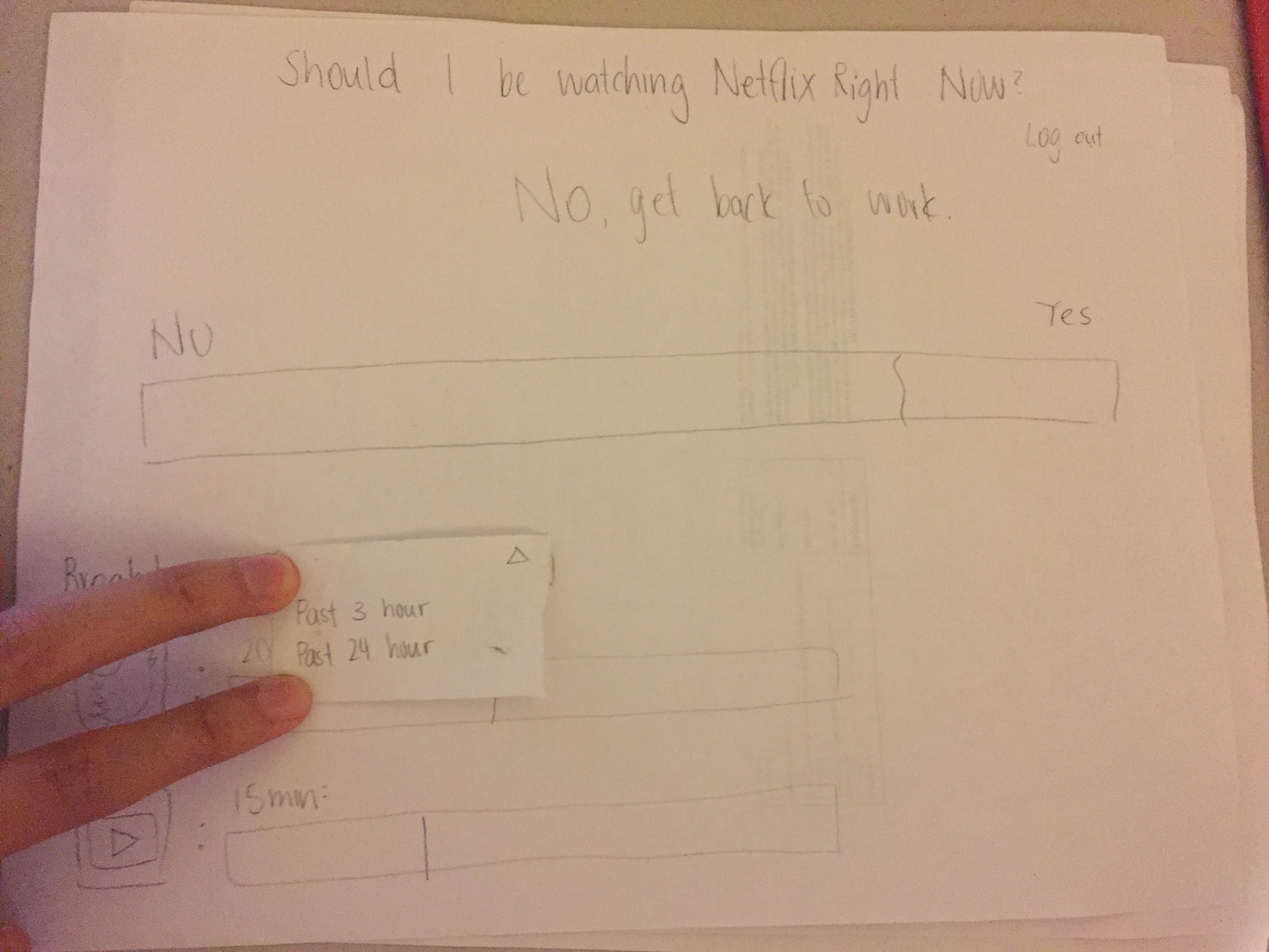
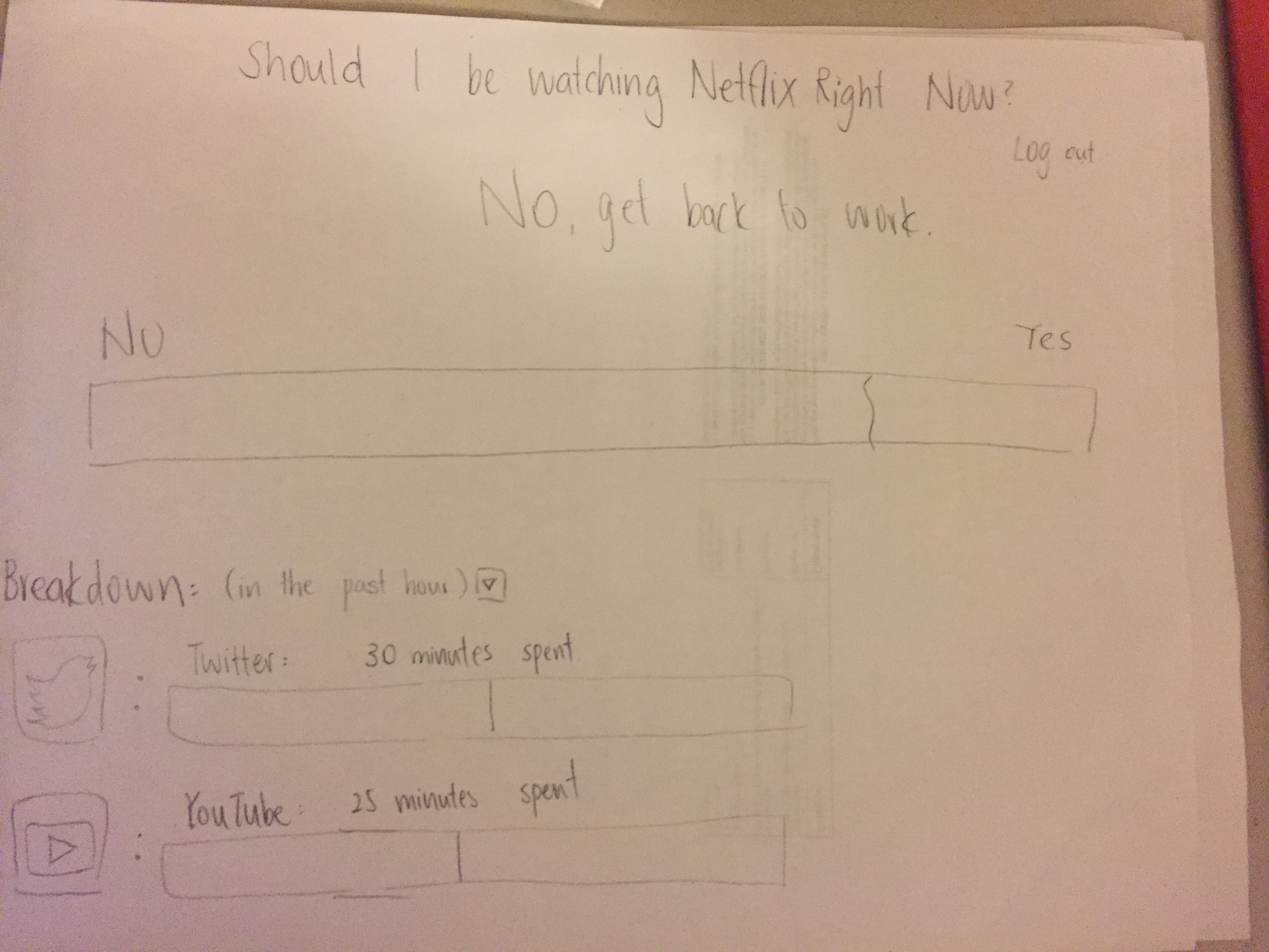
added descriptions for prototype2

diff --git a/milestone2.md b/milestone2.md
@@ -47,13 +47,13 @@ This prototype is related to tracking productivity and distractions and utilizin
 
 
 ## Paper Prototype for Should I Really be Watching Netflix Right Now?
-1.
-<img src="https://raw.githubusercontent.com/matt-ewho/COGS-121-Sleep-Deprived/master/images/Paper%20Prototype%20-%20OW/netflix_pp_step1.jpg" height="50%" width="50%">
-2.
-<img src="https://raw.githubusercontent.com/matt-ewho/COGS-121-Sleep-Deprived/master/images/Paper%20Prototype%20-%20OW/netflix_pp_step2.jpg" height="50%" width="50%">
-3.
-<img src="https://raw.githubusercontent.com/matt-ewho/COGS-121-Sleep-Deprived/master/images/Paper%20Prototype%20-%20OW/netflix_pp_step3.jpg" height="50%" width="50%">
-4.
-<img  src="https://raw.githubusercontent.com/matt-ewho/COGS-121-Sleep-Deprived/master/images/Paper%20Prototype%20-%20OW/netflix_pp_step4.jpg" height="50%" width="50%">
-5.
-<img src="https://raw.githubusercontent.com/matt-ewho/COGS-121-Sleep-Deprived/master/images/Paper%20Prototype%20-%20OW/netflix_pp_step5.jpg" height="50%" width="50%">
+1. In the log in page, user gets to enter by logging in.
+<img src="https://raw.githubusercontent.com/matt-ewho/COGS-121-Sleep-Deprived/master/images/Paper%20Prototype%20-%20netflix/netflix_pp_step1.JPG" height="50%" width="50%">
+2. User is able to connect their account through their Google account. And once a personal account is established, the site can track the user's browsing activities.
+<img src="https://raw.githubusercontent.com/matt-ewho/COGS-121-Sleep-Deprived/master/images/Paper%20Prototype%20-%20netflix/netflix_pp_step2.JPG" height="50%" width="50%">
+3. Once the user has logged in, the site will display a progress bar. The unit for the progress bar is the amount of time user has been active on a particular webpage for the past hour. If the progress bar is over 50%, user will receive the display or notification that they should be watching Netflix. In the example, the user has spent less than 50% of their time on being productive in the past hour and therefore the site is discouraging the user from watching Netflix.
+<img src="https://raw.githubusercontent.com/matt-ewho/COGS-121-Sleep-Deprived/master/images/Paper%20Prototype%20-%20netflix/netflix_pp_step3.JPG" height="50%" width="50%">
+4. User is able to select the timeframe where the progress bar checks the amount of time the user is utilizing their Internet for productivity.
+<img  src="https://raw.githubusercontent.com/matt-ewho/COGS-121-Sleep-Deprived/master/images/Paper%20Prototype%20-%20netflix/netflix_pp_step4.JPG" height="50%" width="50%">
+5. Even though the user hasn't been productive for the past hour, the user is productive in a 24 hours timeframe. Therefore, the site is encouraging the user to watch Netflix.  
+<img src="https://raw.githubusercontent.com/matt-ewho/COGS-121-Sleep-Deprived/master/images/Paper%20Prototype%20-%20netflix/netflix_pp_step5.JPG" height="50%" width="50%">
